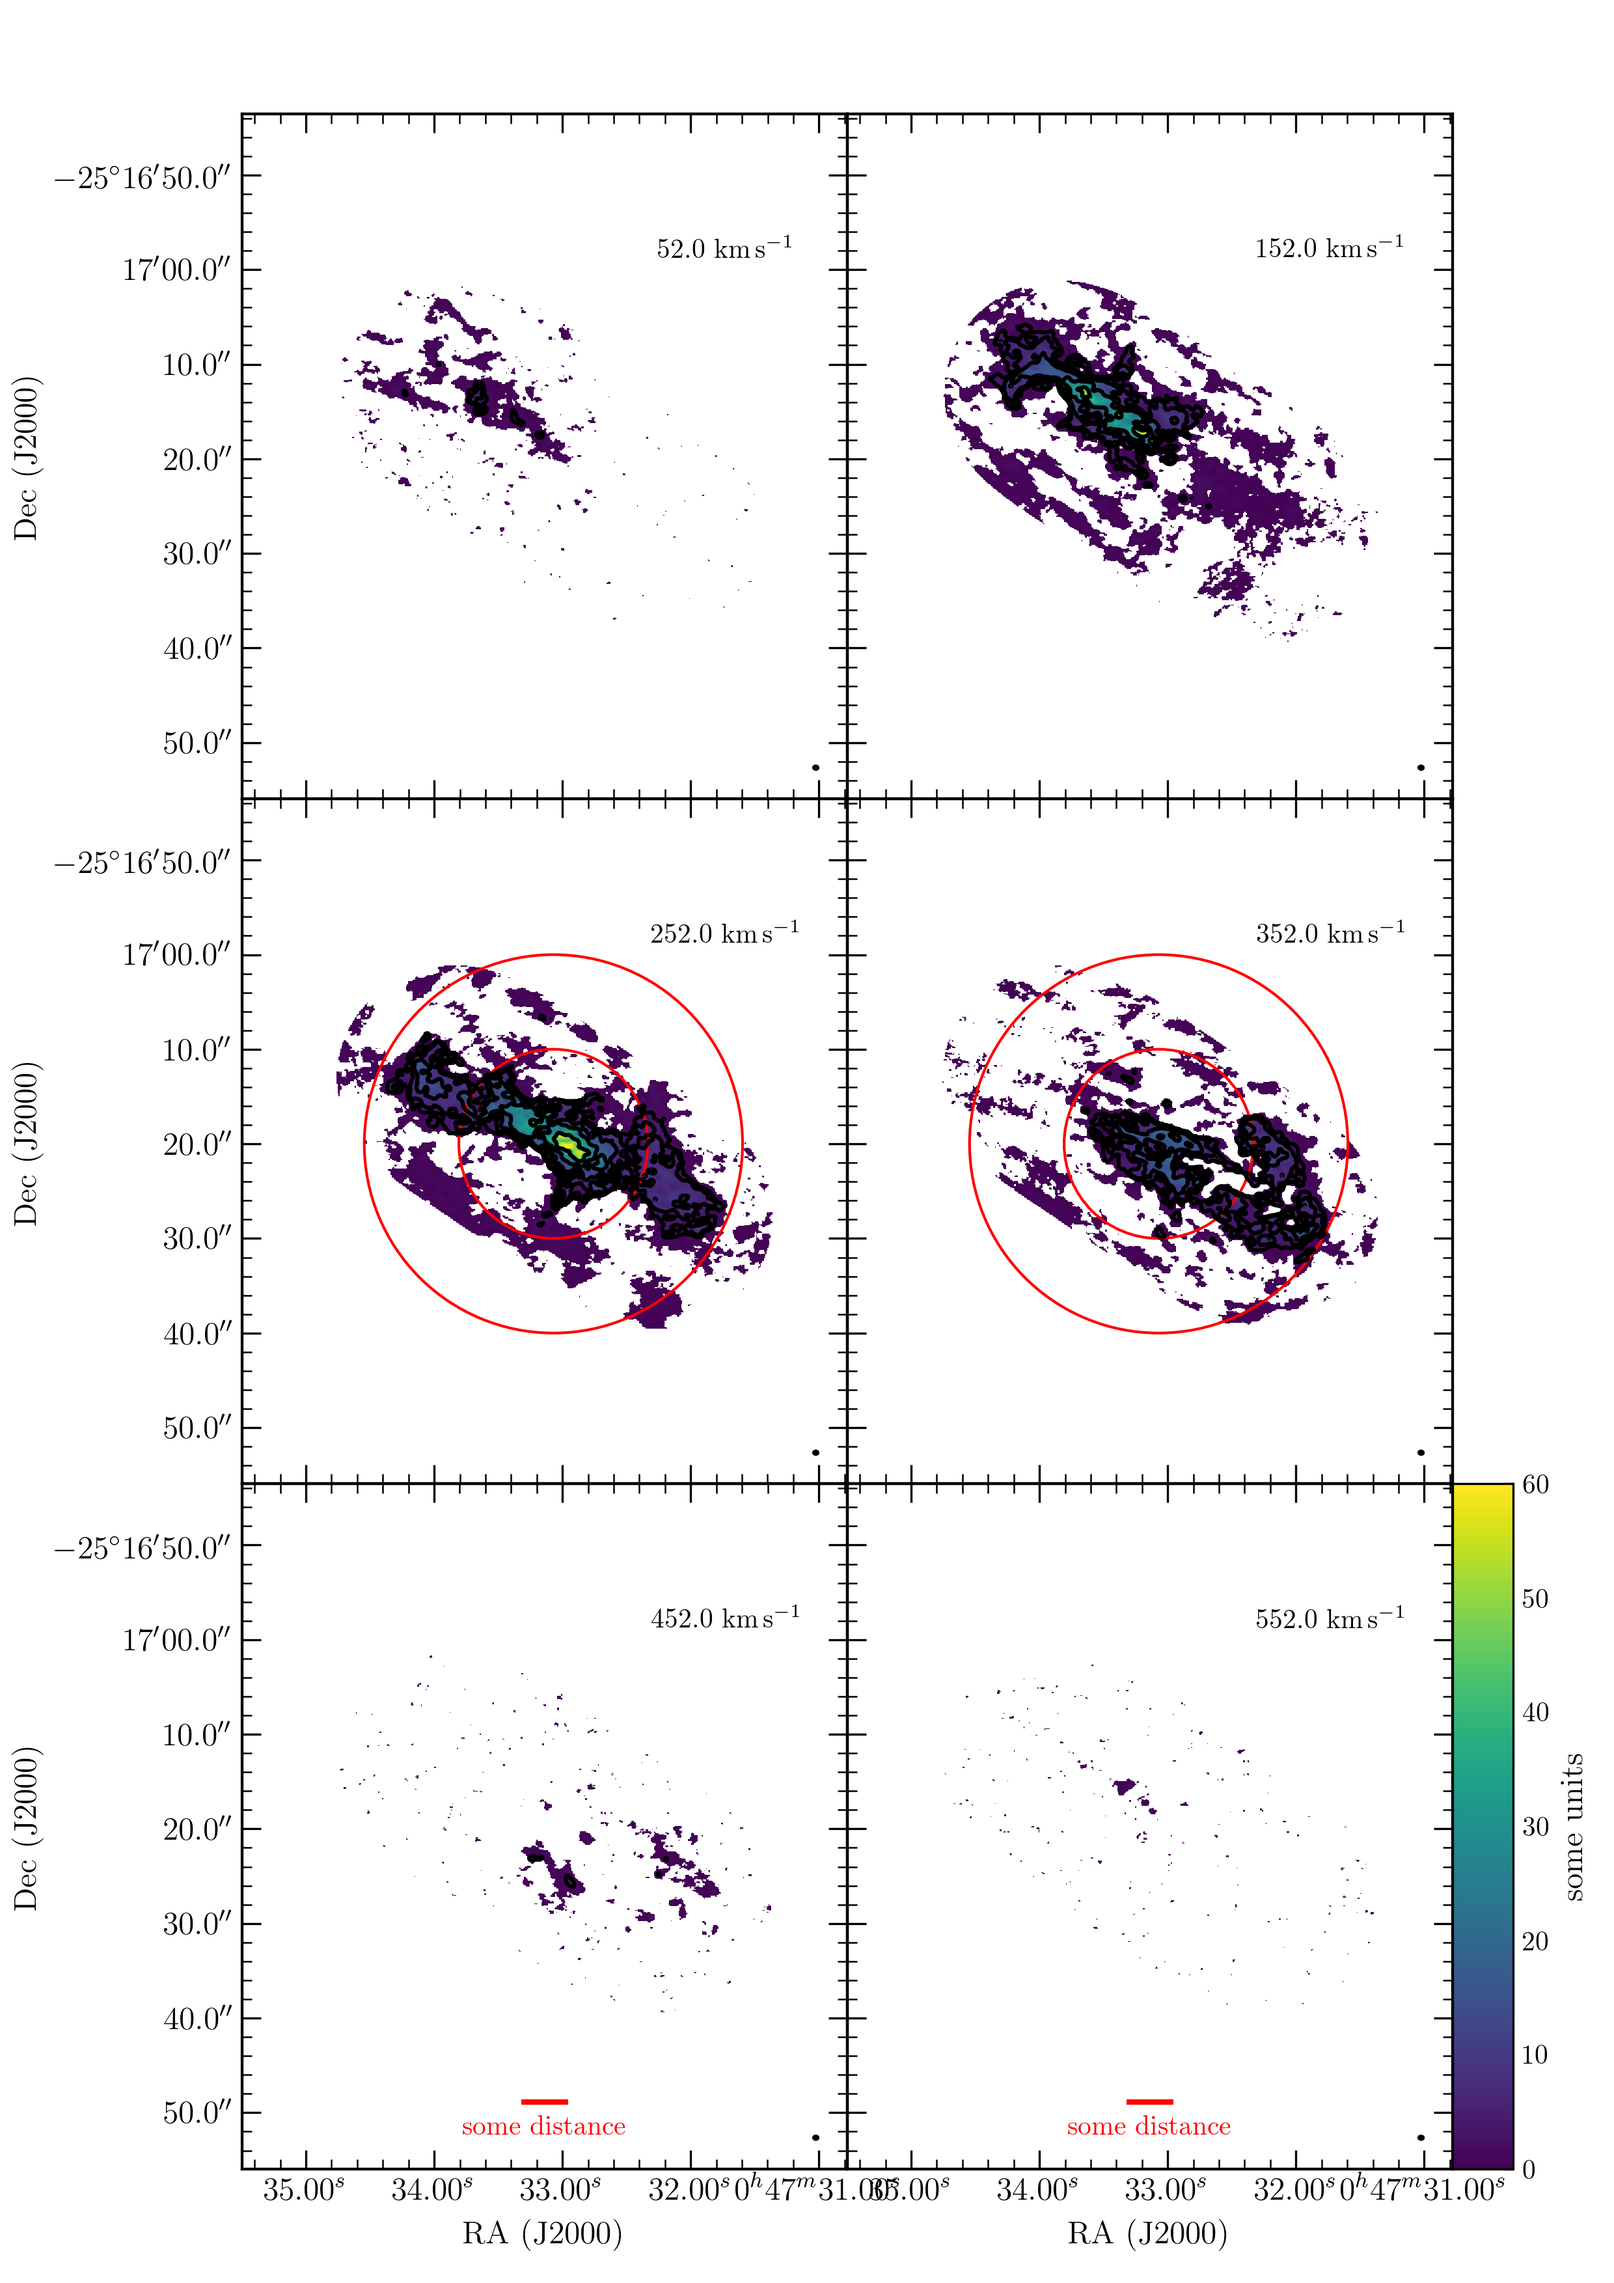
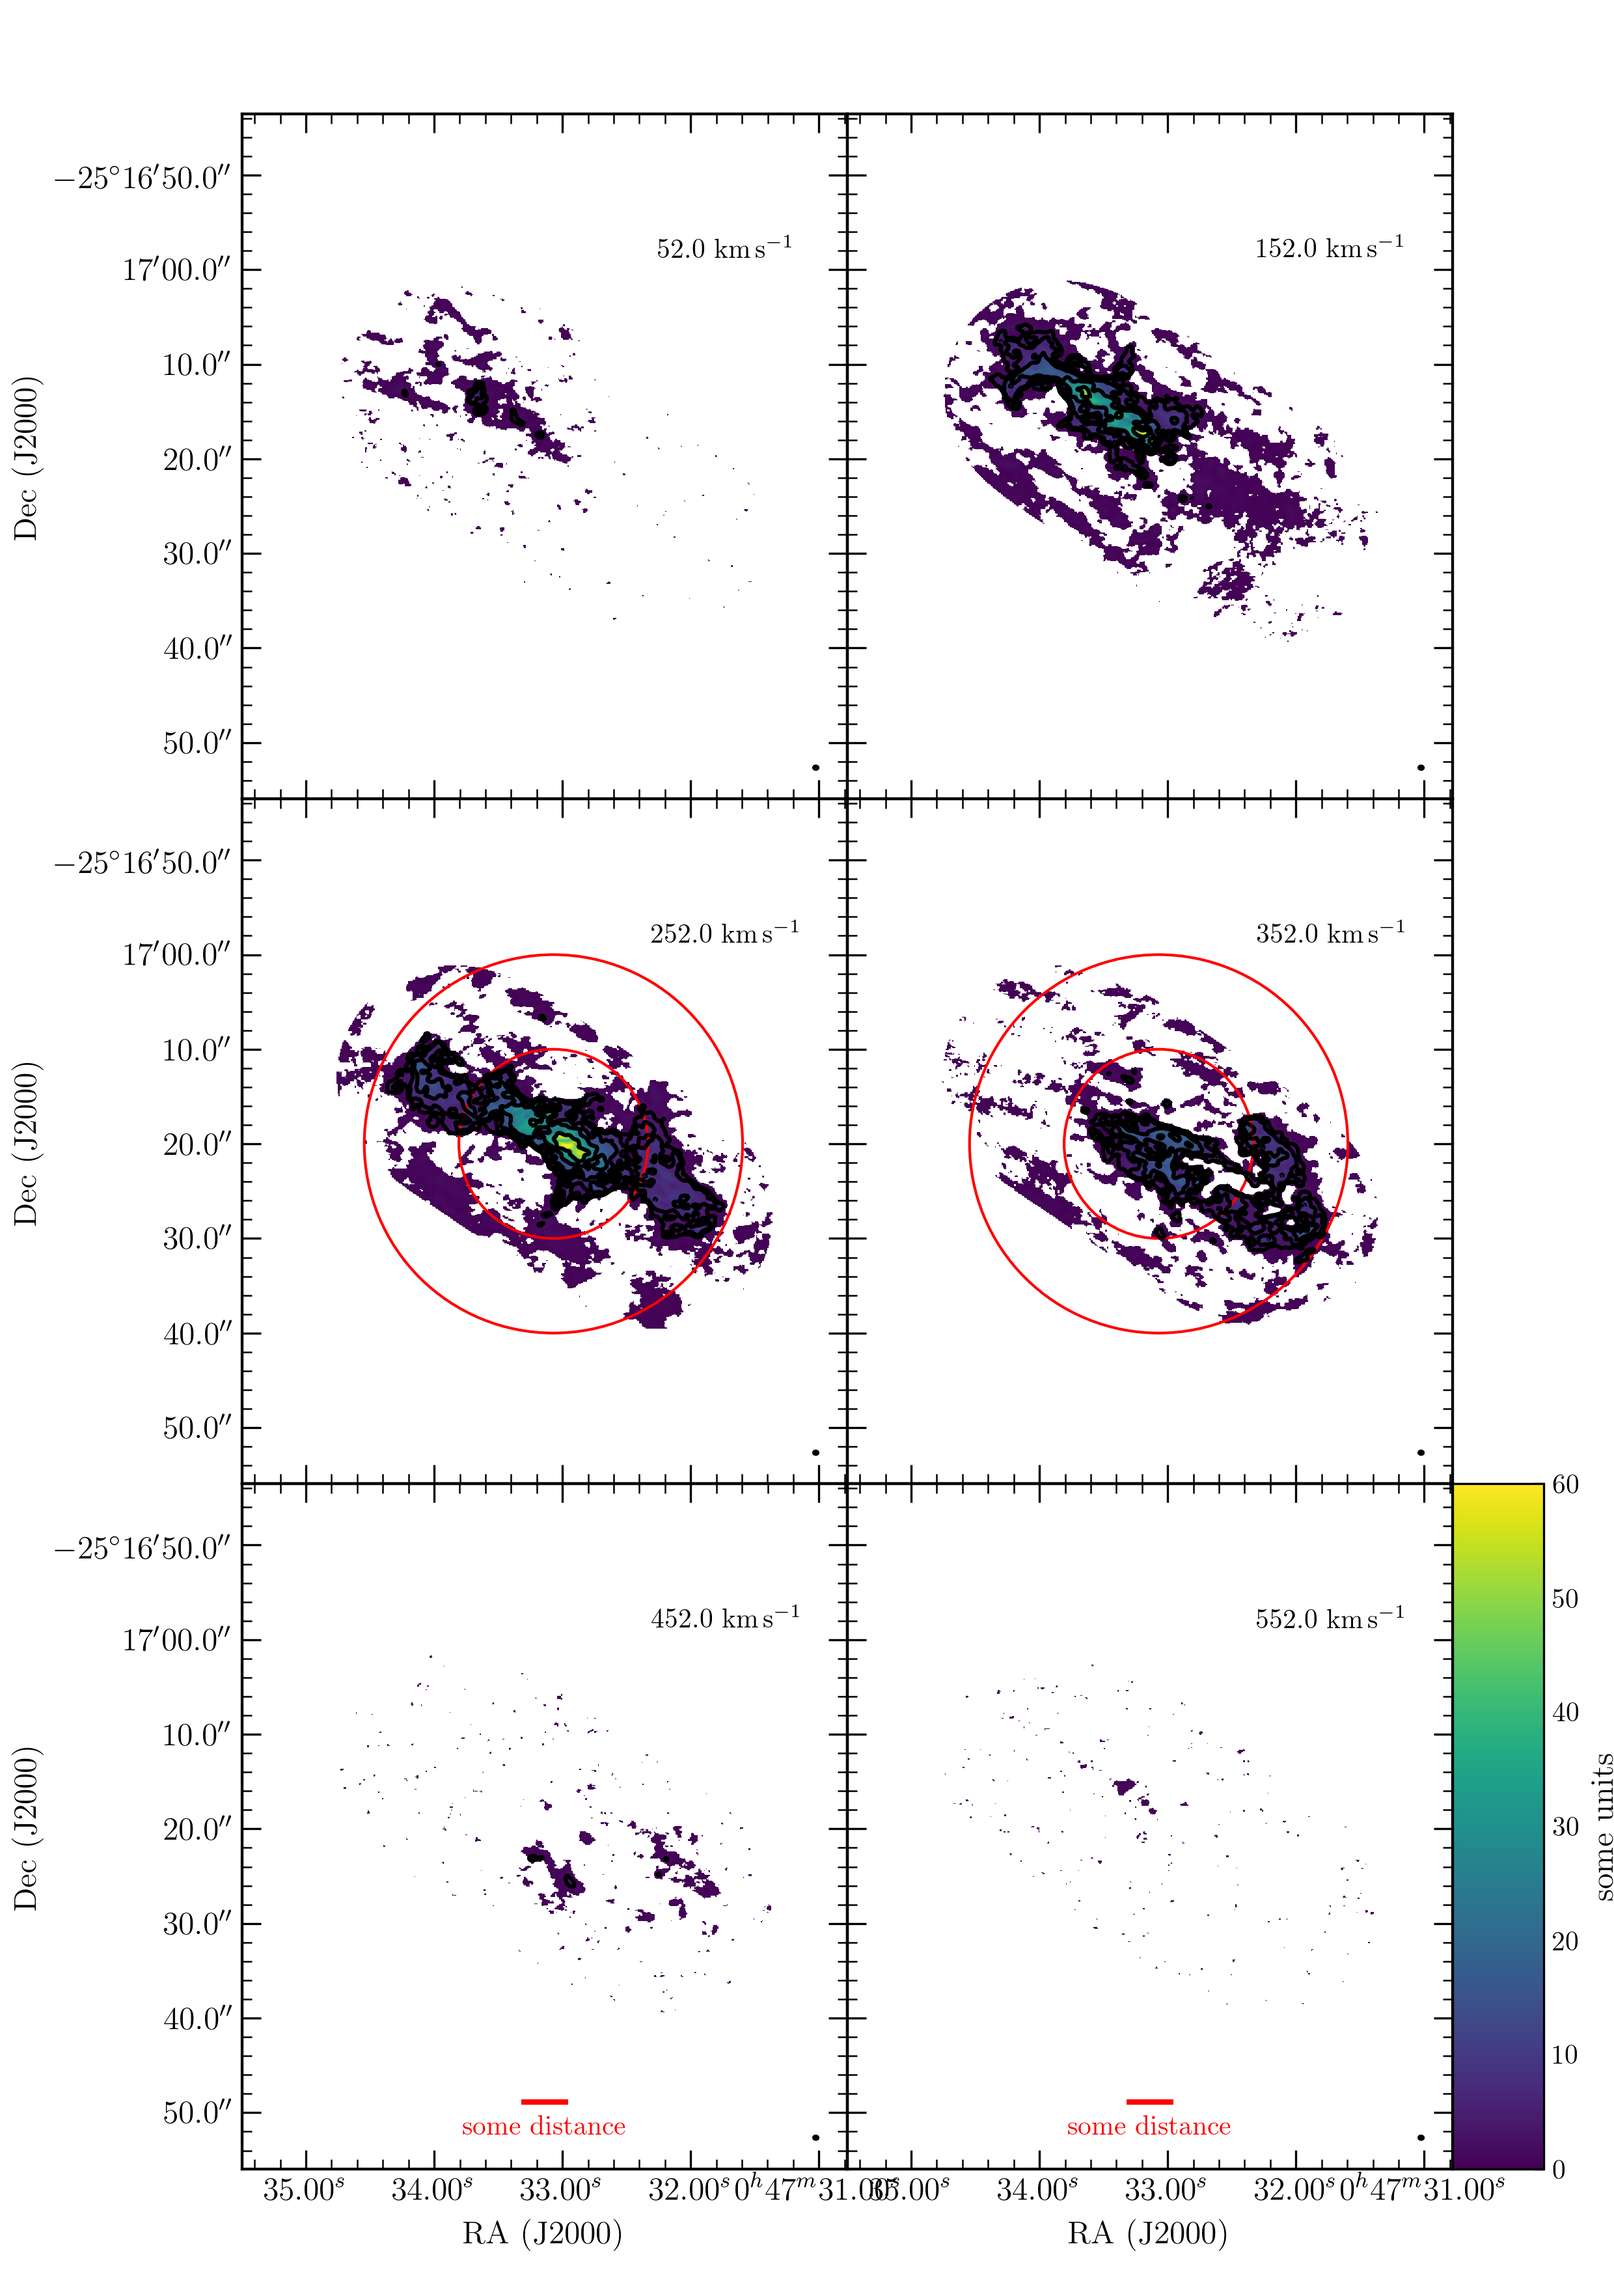
Updated example plot in README

Changed region(s): [[0.9315, 0.6527, 1.0, 0.9635]]

diff --git a/test_data/tests.py b/test_data/tests.py
@@ -108,8 +108,6 @@ easy_aplpy.plot.grid('cube.fits', [2,3], [150,200,250,300,350],
     colorbar = ['last panel', 'some units']
     )
 
-easy_aplpy.settings.margins = [0.15,0.10,0.05,0.05]
-easy_aplpy.settings.colorbar_width = 0.10
 easy_aplpy.plot.grid('cube.fits', [2,3], [150,200,250,300,350,400],
     out      = {'filename': 'cube.channelmap.complex.right.png', 'dpi': 300, 'transparent': True},
     vmin     = 0,
@@ -130,7 +128,6 @@ easy_aplpy.plot.grid('cube.fits', [2,3], [150,200,250,300,350,400],
     scalebar = [5.0*u.arcsec, 'some distance', 'bottom'],
     colorbar = ['right', 'some units']
     )
-easy_aplpy.settings.restore_defaults()
 
 
 ####################################################################################################

diff --git a/settings/_settings.py b/settings/_settings.py
@@ -42,5 +42,5 @@ grid_label_pos        = [0.8,0.8]       # relative position in panel
 grid_label_color      = 'black'
 grid_label_fontsize   = 10              # unit: point
 grid_label_format     = '{:3.1f}'       # .format string
-margins               = [0.1,0.05,0.05,0.05]    # margins around figure (left, right, top, bottom)
+margins               = [0.15,0.10,0.05,0.05]    # margins around figure (left, right, top, bottom)
 props                 = {'boxstyle': "round", 'facecolor': "w", 'edgecolor': "black", 'linewidth': 0.5, 'alpha': 0.8}
